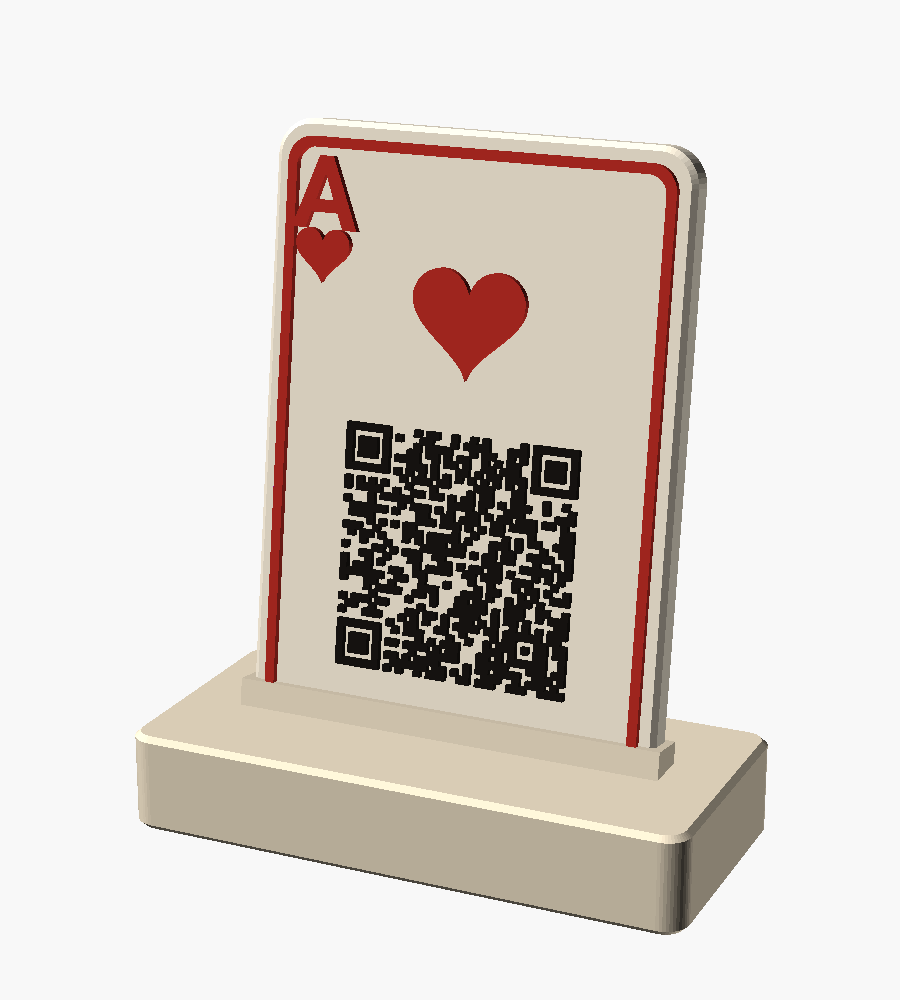
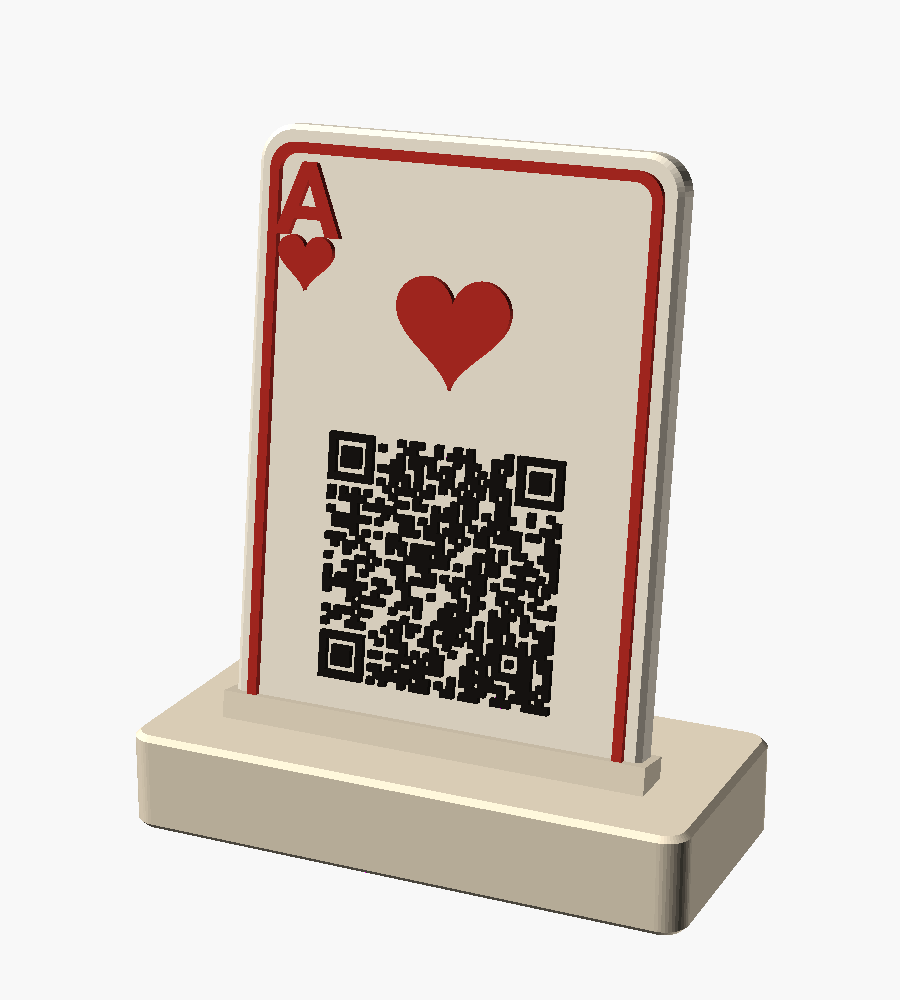
refine: move Heart A stand slot forward

Changed region(s): [[0.2489, 0.124, 0.8089, 0.806], [0.4667, 0.248, 0.5911, 0.341], [0.4356, 0.279, 0.56, 0.403]]

diff --git a/README.md b/README.md
@@ -13,7 +13,7 @@
 - 连续阶梯主体：相邻层重叠连接，不留会掉牌的大缝
 - 红桃 A：`52 × 78 × 4.0 mm` 厚卡体，浮雕后最大厚度约 `4.85 mm`
 - 0.4 mm 喷嘴友好浮雕：`1.2 mm` 边框、`0.9 mm` 浮雕高度、加粗 A/♥ 与简化角标
-- 独立红桃 A 展示基座：`70 × 32 × 12 mm`，使用与主体相同的 `5.4 mm / 8°` 插槽
+- 独立红桃 A 展示基座：`70 × 32 × 12 mm`，使用与主体相同的 `5.4 mm / 8°` 插槽；槽中心距前沿 `11.5 mm`
 - 左右各一条横向计级滑轨，带 13 个刻度和 `2 / A` 端点标记
 - 每个刻度对应一个 `3.5 mm` 圆形定位凹槽，滑块经过 `2.85 mm` 窄连接段时产生轻微卡位感
 - 两端 `2 / A` 使用 `4.2 mm` 粗体字，提升 0.4 mm 喷嘴下的清晰度
